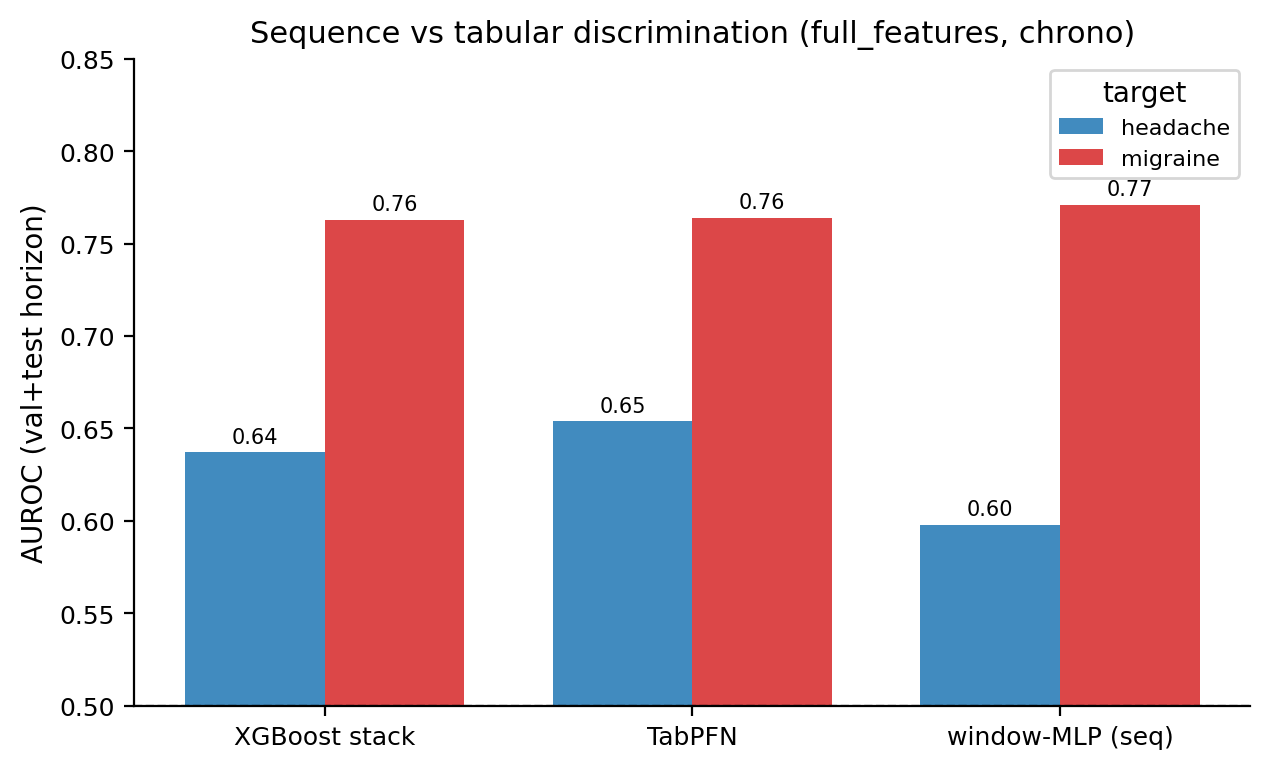
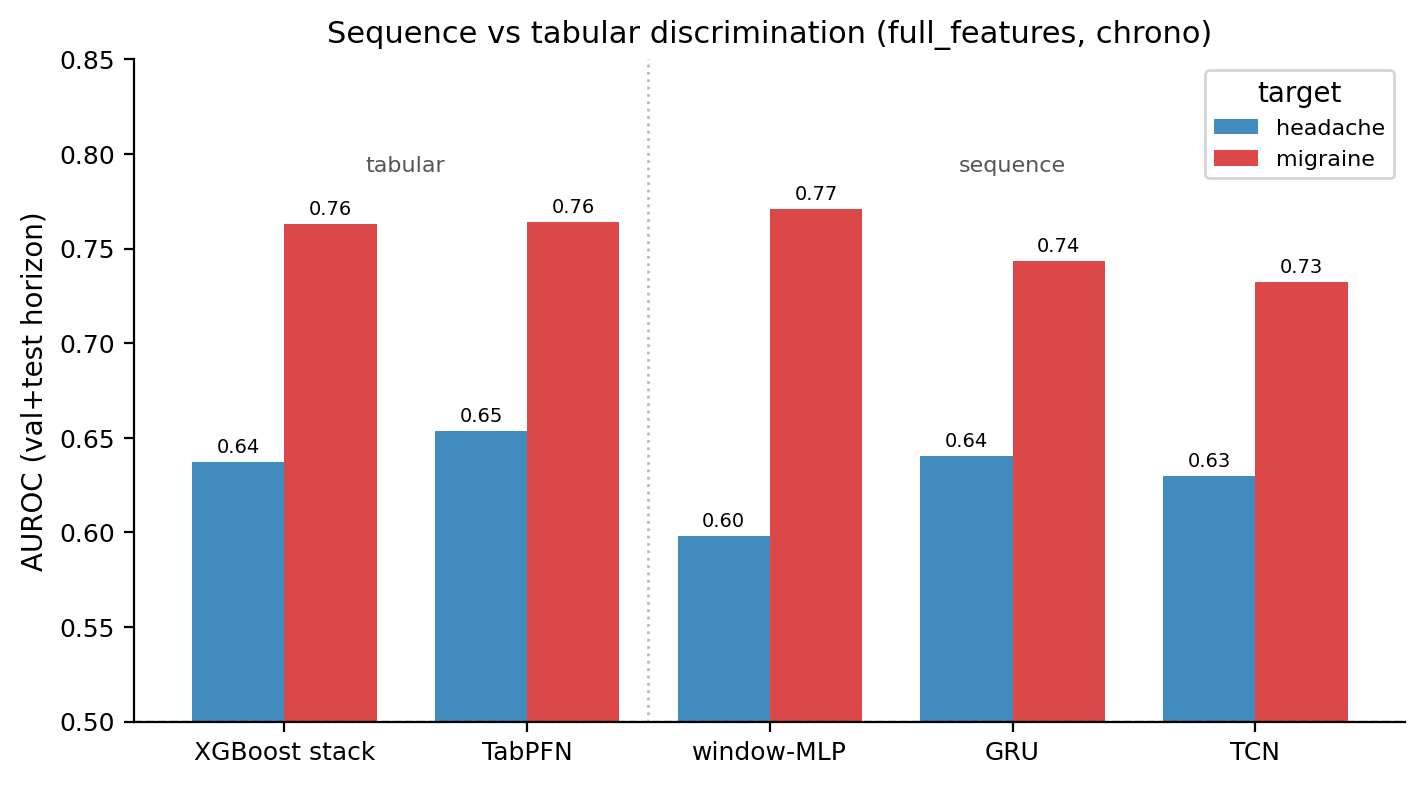
completed sequence comparison with trained GRU and TCN in the B7 figure

diff --git a/docs/methodAndResults_diagramCreatorScripts/fig_b7_sequence_vs_tabular.py b/docs/methodAndResults_diagramCreatorScripts/fig_b7_sequence_vs_tabular.py
@@ -1,16 +1,13 @@
 """Figure B7 - sequence vs tabular discrimination (Addition 4).
 
-Hold-out (val+test) AUROC of the sequence model (window-MLP over gap-aware
-temporal windows) against the tabular architectures (XGBoost stack, TabPFN),
-per target, full_features chronological. The sequence model does not beat the
-tabular models on this cohort - day-to-day order adds little once history
-features are present. Computed via the Addition 5 prediction worker so all
-architectures are scored on the same horizon (the internal Addition 4 cells were
-not emitted to the comparison table).
-
-Note: only the window-MLP sequence variant was trained; the GRU and TCN variants
-were scaffolded (`experiment/4/.../version_{gru,tcn}/`) but not fitted, so the
-sequence family is represented here by the window-MLP.
+Hold-out (val+test) AUROC of the three sequence architectures (window-MLP, GRU,
+TCN over gap-aware temporal windows) against the tabular architectures (XGBoost
+stack, TabPFN), per target, full_features chronological. No sequence variant beats
+the tabular models on this cohort: explicit temporal modelling adds nothing once
+the rolling/lag history features are present, consistent with Addition 3 finding
+that day-to-day dependence decays within a few days. Computed via the Addition 5
+prediction worker so every architecture is scored on the same horizon (the
+internal Addition 4 cells were not emitted to the comparison table).
 
 Usage: python fig_b7_sequence_vs_tabular.py
 """
@@ -29,8 +26,8 @@ from sklearn.metrics import roc_auc_score
 HERE = Path(__file__).resolve().parent
 EXP = HERE.parents[1] / "experiment"
 WORKER = EXP / "5" / "_personal" / "_predict_worker.py"
-ORDER = ["XGBoost stack", "TabPFN", "window-MLP (seq)"]
-COL = {"XGBoost stack": "#1b9e77", "TabPFN": "#7570b3", "window-MLP (seq)": "#d95f02"}
+ORDER = ["XGBoost stack", "TabPFN", "window-MLP", "GRU", "TCN"]
+TABULAR = {"XGBoost stack", "TabPFN"}
 
 
 def _env(addition):
@@ -47,7 +44,8 @@ def _auroc(leaf):
         r = subprocess.run([sys.executable, str(WORKER), str(leaf), str(out)],
                            capture_output=True, text=True, timeout=1800, env=_env(add))
         if r.returncode != 0 or not out.exists():
-            print("  skip", leaf.name); return None
+            print("  skip", leaf.name, (r.stderr.strip().splitlines() or ["?"])[-1])
+            return None
         z = np.load(out)
         return float(roc_auc_score(z["y"], z["p"]))
     finally:
@@ -55,12 +53,15 @@ def _auroc(leaf):
 
 
 def _leaves(tgt):
+    seqbase = EXP / "4" / tgt / "full_features" / "sequence"
     out = {}
     for m in (EXP / "0" / tgt / "full_features").rglob("NonHP/model.joblib"):
         if "stacked_2xgb" in str(m) and "/70_15_15/chrono/" in str(m):
             out["XGBoost stack"] = m.parent; break
     out["TabPFN"] = EXP / "1" / tgt / "full_features/tabpfn/version_3-default/70_15_15/chrono"
-    out["window-MLP (seq)"] = EXP / "4" / tgt / "full_features/sequence/version_window-mlp/70_15_15/chrono"
+    out["window-MLP"] = seqbase / "version_window-mlp/70_15_15/chrono"
+    out["GRU"] = seqbase / "version_gru/70_15_15/chrono"
+    out["TCN"] = seqbase / "version_tcn/70_15_15/chrono"
     return out
 
 
@@ -70,12 +71,12 @@ def main():
     for tgt in aurocs:
         for label, leaf in _leaves(tgt).items():
             if not (leaf / "model.joblib").exists():
-                continue
+                print(f"  {tgt} {label}: no model.joblib"); continue
             a = _auroc(leaf)
             if a is not None:
                 aurocs[tgt][label] = a
-                print(f"  {tgt:<9} {label:<18} AUROC {a:.3f}")
-    fig, ax = plt.subplots(figsize=(7.2, 4.2))
+                print(f"  {tgt:<9} {label:<14} AUROC {a:.3f}")
+    fig, ax = plt.subplots(figsize=(8.2, 4.3))
     x = np.arange(len(ORDER)); w = 0.38
     for i, tgt in enumerate(("headache", "migraine")):
         vals = [aurocs[tgt].get(l, np.nan) for l in ORDER]
@@ -83,13 +84,18 @@ def main():
         for b, v in zip(bars, vals):
             if v == v:
                 ax.text(b.get_x() + b.get_width() / 2, v + 0.005, f"{v:.2f}",
-                        ha="center", fontsize=7.5)
+                        ha="center", fontsize=7)
     ax.axhline(0.5, color="black", lw=0.8, ls="--")
+    ax.axvline(1.5, color="#bbbbbb", lw=1, ls=":")        # tabular | sequence divider
+    ax.text(0.5, 0.83, "tabular", ha="center", fontsize=8, color="#555",
+            transform=ax.get_xaxis_transform())
+    ax.text(3.0, 0.83, "sequence", ha="center", fontsize=8, color="#555",
+            transform=ax.get_xaxis_transform())
     ax.set_xticks(x); ax.set_xticklabels(ORDER)
     ax.set_ylim(0.5, 0.85)
     ax.set_ylabel("AUROC (val+test horizon)")
     ax.set_title("Sequence vs tabular discrimination (full_features, chrono)")
-    ax.legend(title="target")
+    ax.legend(title="target", loc="upper right")
     print("saved", S.save(fig, HERE / "figures" / "fig_b7_sequence_vs_tabular"))
 
 
